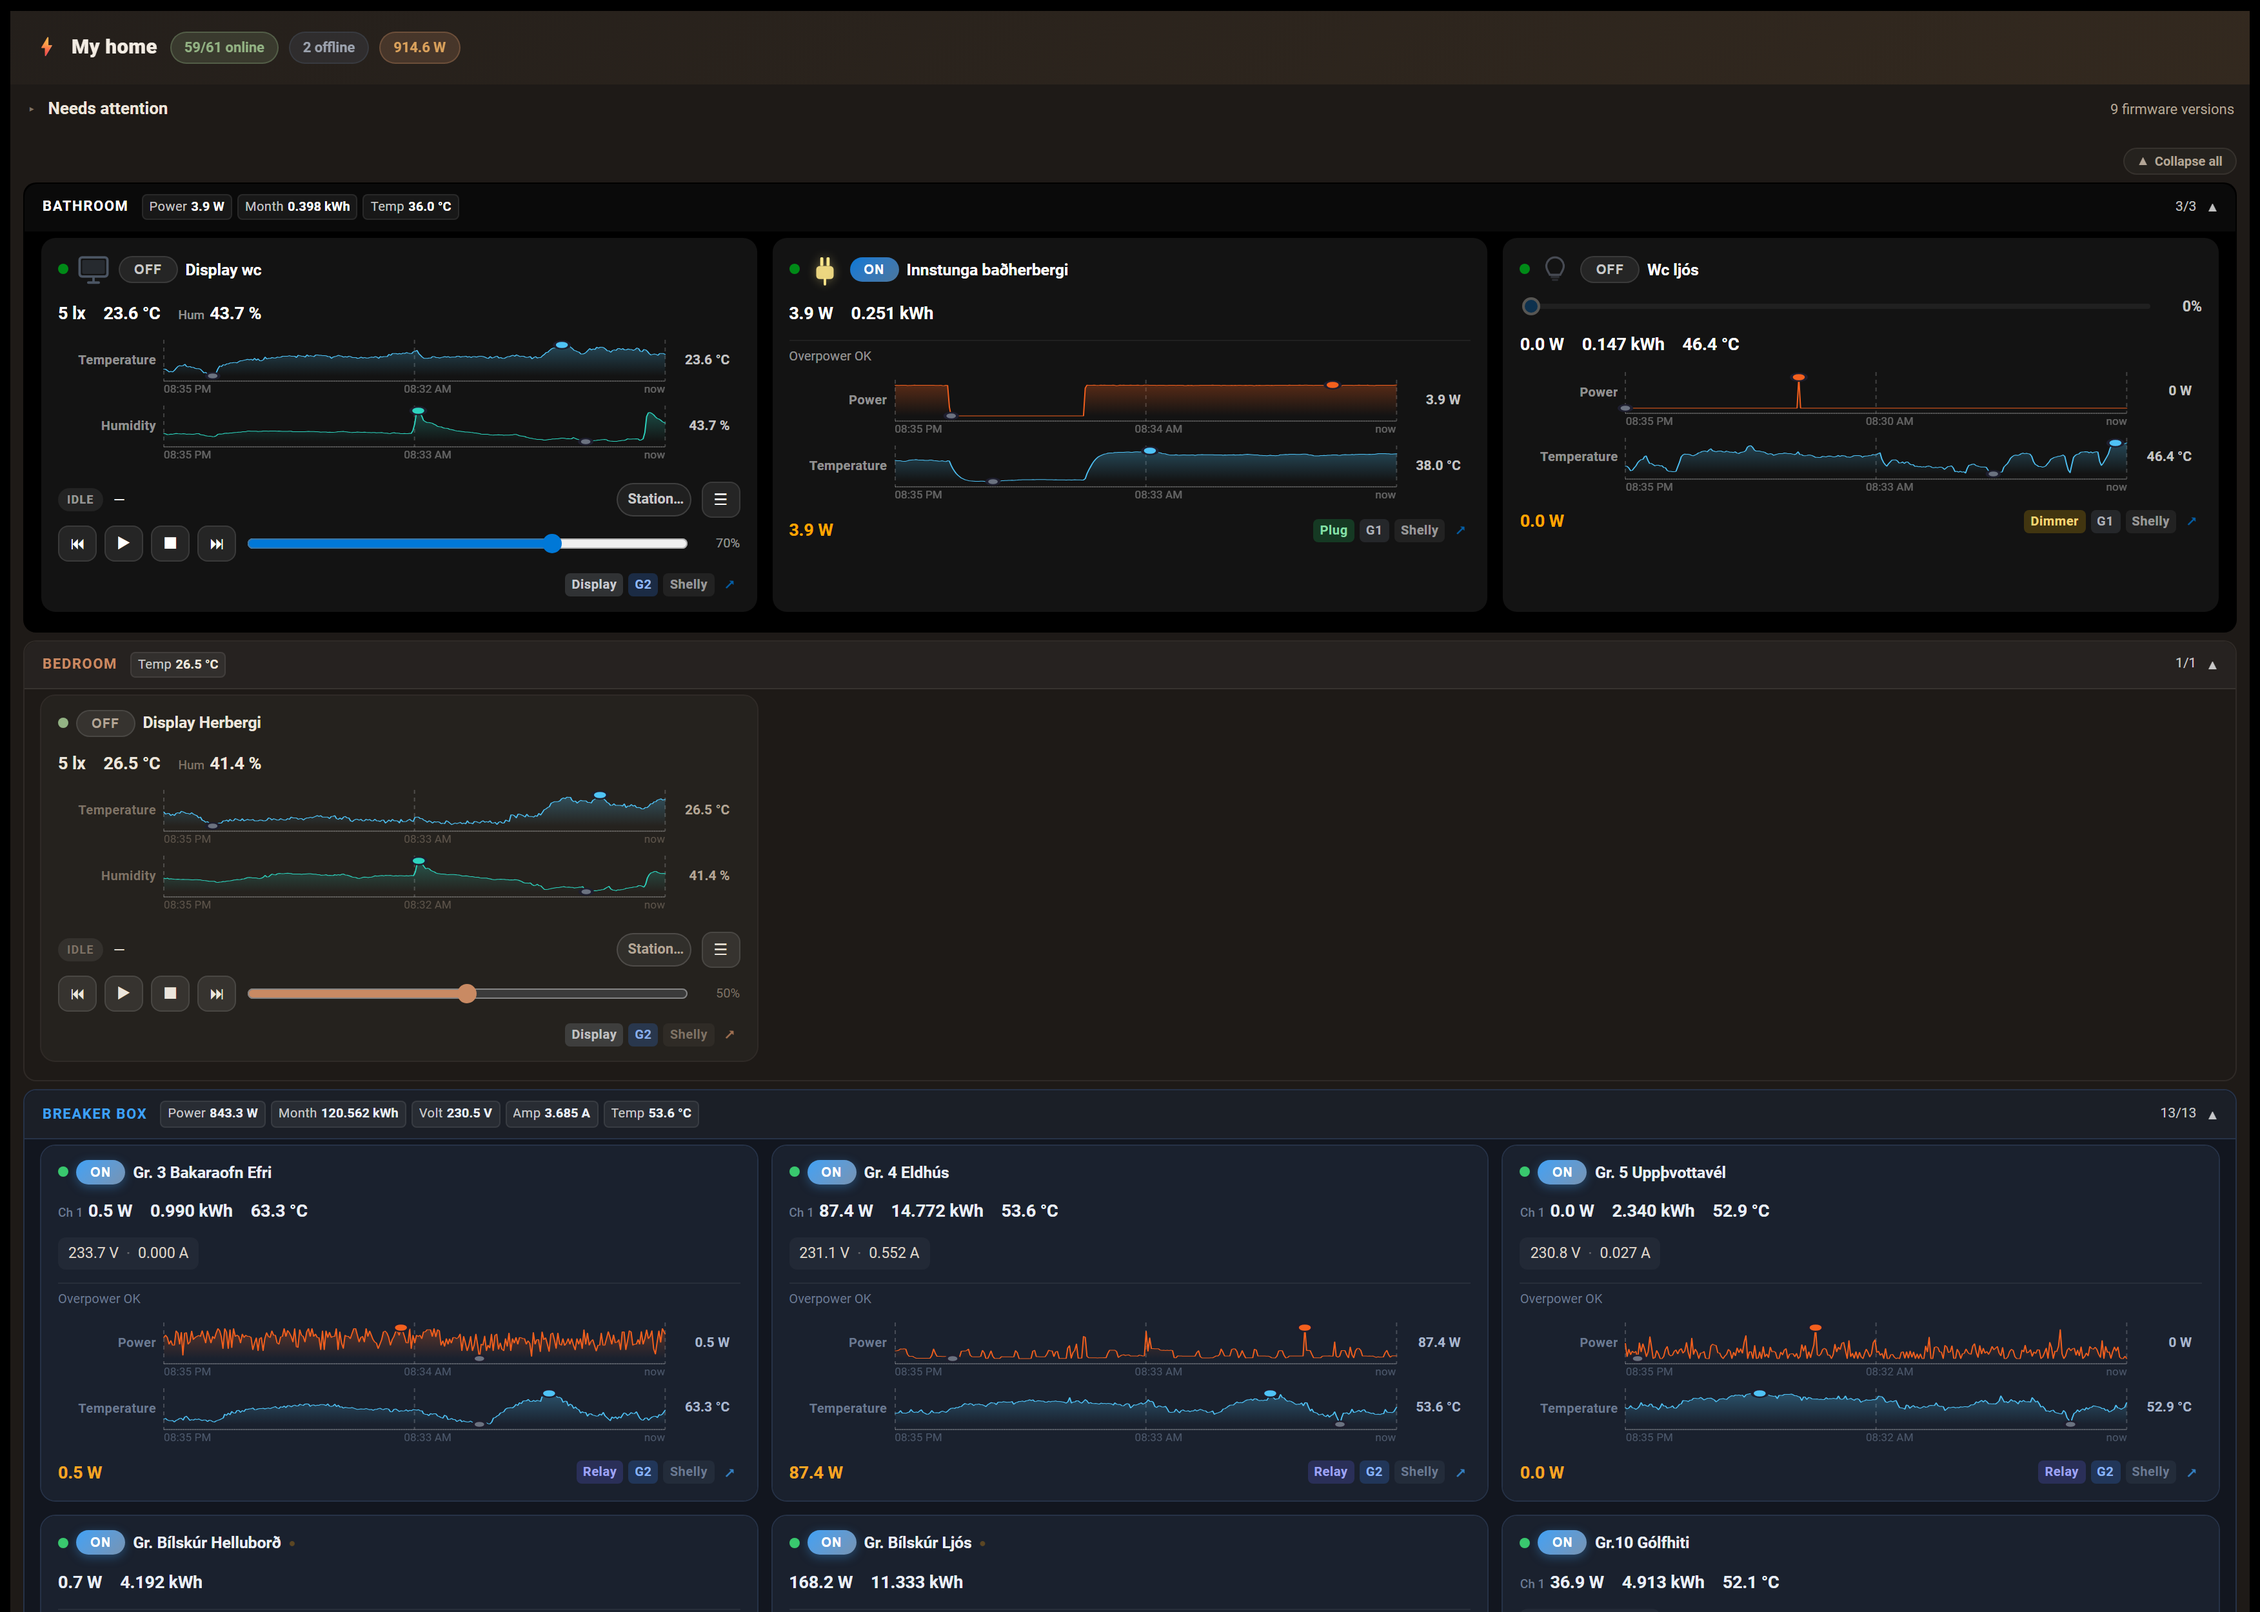
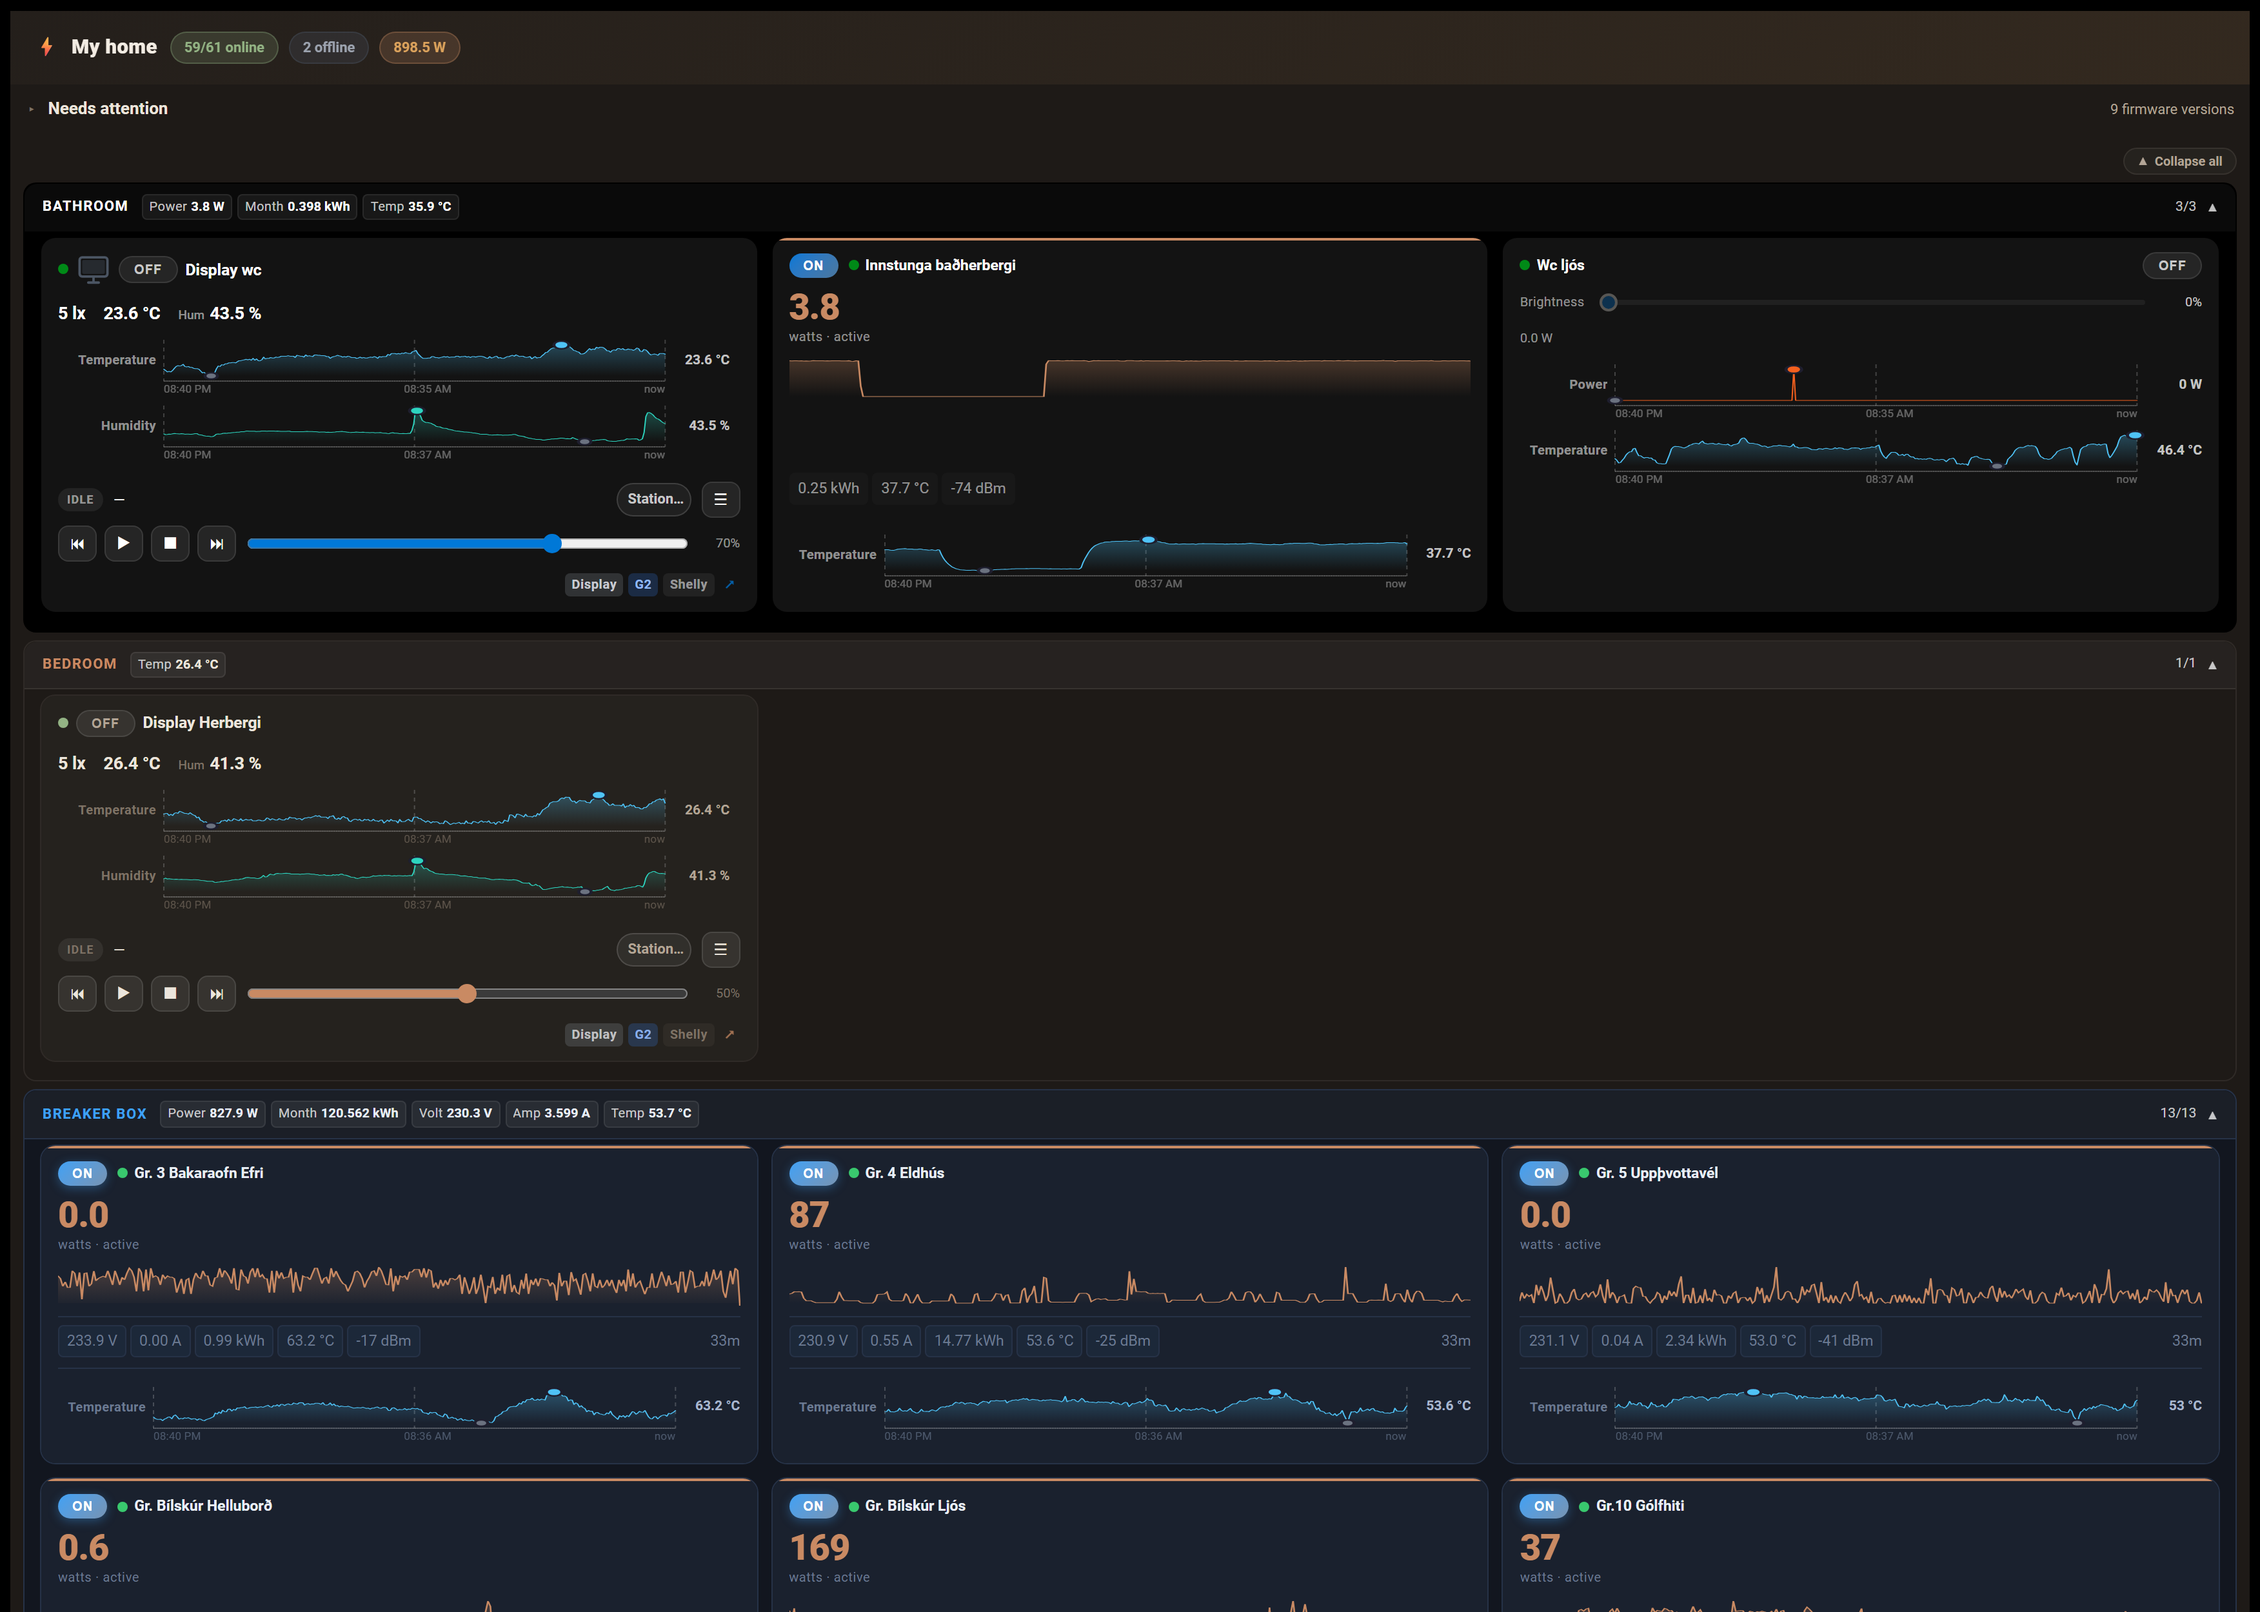
docs: the themes shot now shows smart tile styles too
Dropping the card-wide tile_style let smart_tile_styles take effect — it had
been inert, since a set tile_style wins over it in the cascade. The same frame
now carries both ideas at once: a theme per room, and a tile per device profile.
Caption updated to say so, since the image is now making two arguments.

diff --git a/README.md b/README.md
@@ -65,7 +65,10 @@ Real captures from a 61-device Shelly fleet, not mockups.
 
 **Themes are a cascade layer, not a card-wide setting.** One card, eight themes
 — each room takes its own, and a view, a device type or a single device can
-override again:
+override again. Smart tile styles are on here too, so each device picks its own
+tile at the same time: a big-number power monitor for the plug and the breaker
+channels, a brightness slider for the light, a media block for the wall
+displays:
 
 ![Eight themes at once, one per room](docs/images/screenshots/00-tablet-themes.png)
 
